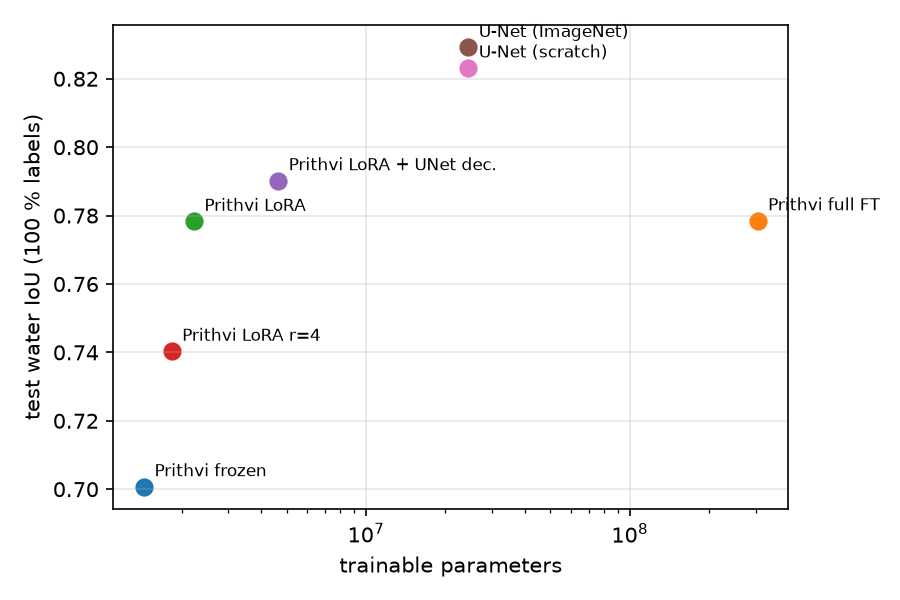
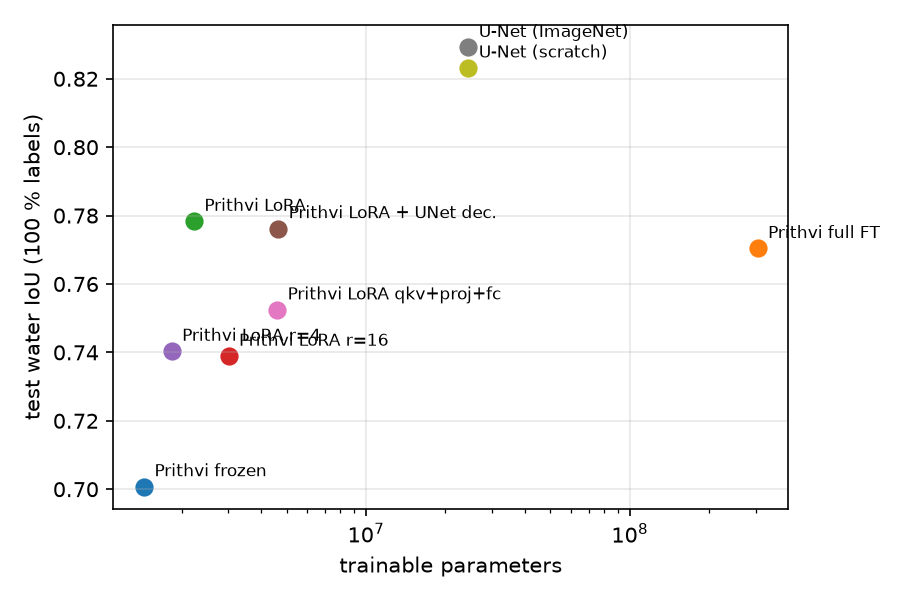
Local queue q9: full/frozen/decoder seeds, LoRA rank and target ablations (76 runs)
- prithvi_full 3 seeds: 0.770±0.010 test, 0.695±0.050 Bolivia
- UNet decoder over 3 seeds equals the FCN head at 100 % (0.776±0.014), +4 pts at 5 %
- LoRA r=8 on qkv beats r=4, r=16 and the qkv+proj+fc variant (seed 0)
- frozen at 2 % / 1 % flat at 0.69

diff --git a/docs/LAB_NOTEBOOK.md b/docs/LAB_NOTEBOOK.md
@@ -145,3 +145,11 @@ Template:
 - **The 8 `prithvi_lora` seed-1/2 runs on Colab all failed**, each after ~45 s (only `config.yaml` written, timestamps 14:09-14:15). The frozen runs on the same machine and the same LoRA config locally both work, so the suspect is the `peft` version Colab installs vs the local 0.20.0. Waiting on `runs/prithvi_lora_f1.00_s1.log` from Drive to see the traceback.
 - Decoder ablation (local, seed 0): LoRA + multi-scale UNet decoder 0.790 test / 0.772 Bolivia at 100 % (FCN head: 0.778 / 0.725) and 0.760 at 5 % (FCN: 0.719). The better decoder recovers 1-4 points and most of the Bolivia gap but still trails the U-Net by 3-5 points: **the shortfall is in the encoder representation for this task, not in the head.**
 - LoRA rank ablation (local, seed 0, 100 %): r=4 -> 0.740 test / 0.678 Bolivia vs r=8 -> 0.778 / 0.725. r=16 and the qkv+proj+fc variant are still to run (stopped mid-run when the laptop was needed).
+
+## 2026-09-13, local queue q9 done: 76 runs
+- Did: frozen seeds 1-2 at 2 % / 1 %, full seeds 1-2 at 100 %, LoRA r=16 and wide-target ablation, UNet-decoder seeds 1-2 at 100 % and 5 %. Only the 8 `prithvi_lora` seed-1/2 runs at 100/25/10/5 % remain (Colab, after fixing its environment: restart after pip, pin peft==0.20.0, uninstall the stale torchao).
+- Full-label table with 3 seeds (test / Bolivia): U-Net scratch 0.823±0.008 / 0.766±0.021; U-Net ImageNet 0.829±0.015 / 0.781±0.007; Prithvi frozen 0.701±0.005 / 0.606±0.083; Prithvi LoRA 0.778 / 0.725 (1 seed so far); LoRA + UNet decoder 0.776±0.014 / 0.730±0.038; Prithvi full 0.770±0.010 / 0.695±0.050.
+- **Decoder ablation with seeds:** the UNet-style decoder's seed-0 advantage (0.790) vanished; over 3 seeds it is 0.776 ± 0.014 at 100 % and 0.760 ± 0.022 at 5 %, i.e. equal to the FCN head in-distribution and ~4 points better at 5 %. A better head does not close the gap to the U-Nets (0.81-0.83). Keep the FCN head as the main configuration; report the decoder as an ablation showing the encoder, not the head, is the limit.
+- **LoRA ablation (seed 0, 100 %):** r=4 0.740, r=8 0.778, r=16 0.739, qkv+proj+fc1+fc2 0.752 (Bolivia 0.632). r=8 on qkv is the best setting; wider adaptation overfits the training regions. Single-seed, so the differences of 3-4 points are suggestive rather than conclusive.
+- **Full FT with 3 seeds:** 0.770 ± 0.010 test, 0.695 ± 0.050 Bolivia. LoRA (2.2 M) is at least as good as full FT (305 M) in-distribution and better on Bolivia: claim 3 stands with error bars.
+- Frozen at 2 % / 1 %: 0.694 ± 0.016 and 0.690 ± 0.012; the frozen curve is flat from 100 % to 1 %.
